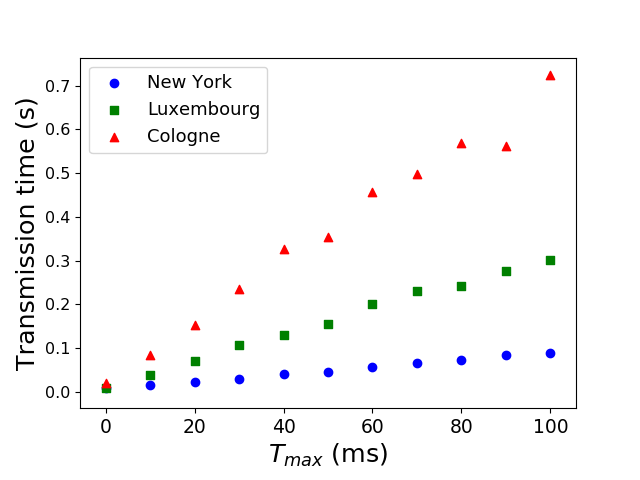
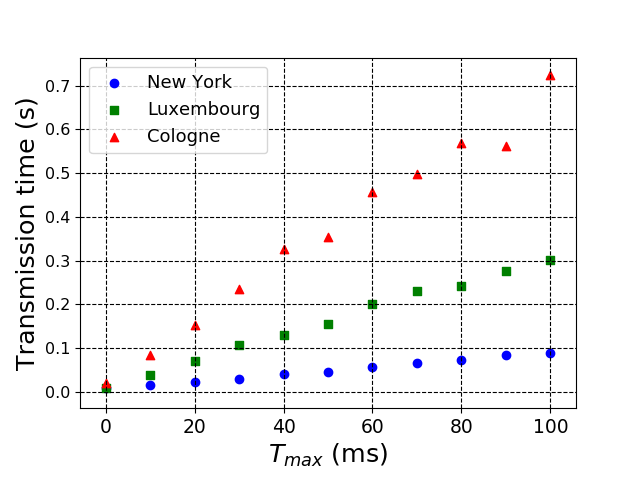
add grid

diff --git a/grafici/invited/T-last-infected.py b/grafici/invited/T-last-infected.py
@@ -16,6 +16,7 @@ plt.rcParams.update({'font.size': 18.3})
 plt.rc('legend', fontsize=13)
 plt.rc('xtick', labelsize=13.5)
 plt.rc('ytick', labelsize=11.5)
+plt.rc('grid', linestyle="--", color='black')
 plt.gcf().subplots_adjust(bottom=0.15)
 
 plt.ylabel('Transmission time (s)')
@@ -27,5 +28,7 @@ plt.scatter(x, cologne, label="Cologne", marker="^", color="red")
 
 plt.legend()
 
+# Grid
+plt.grid(True)
 
 plt.show()
